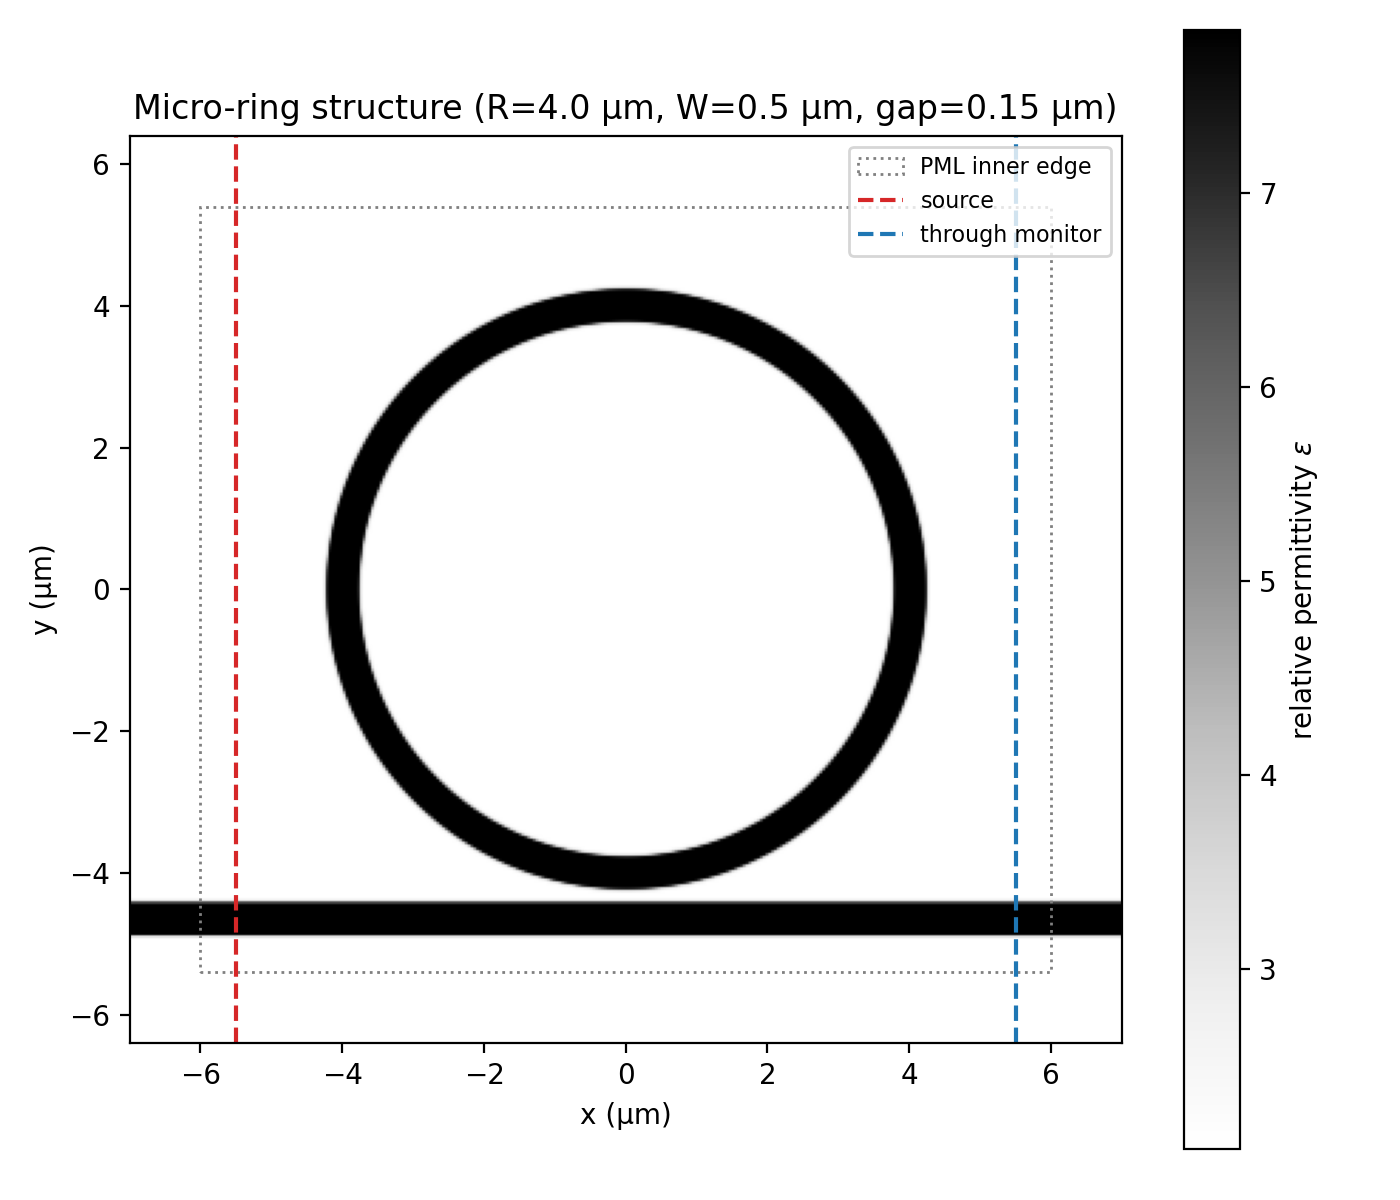
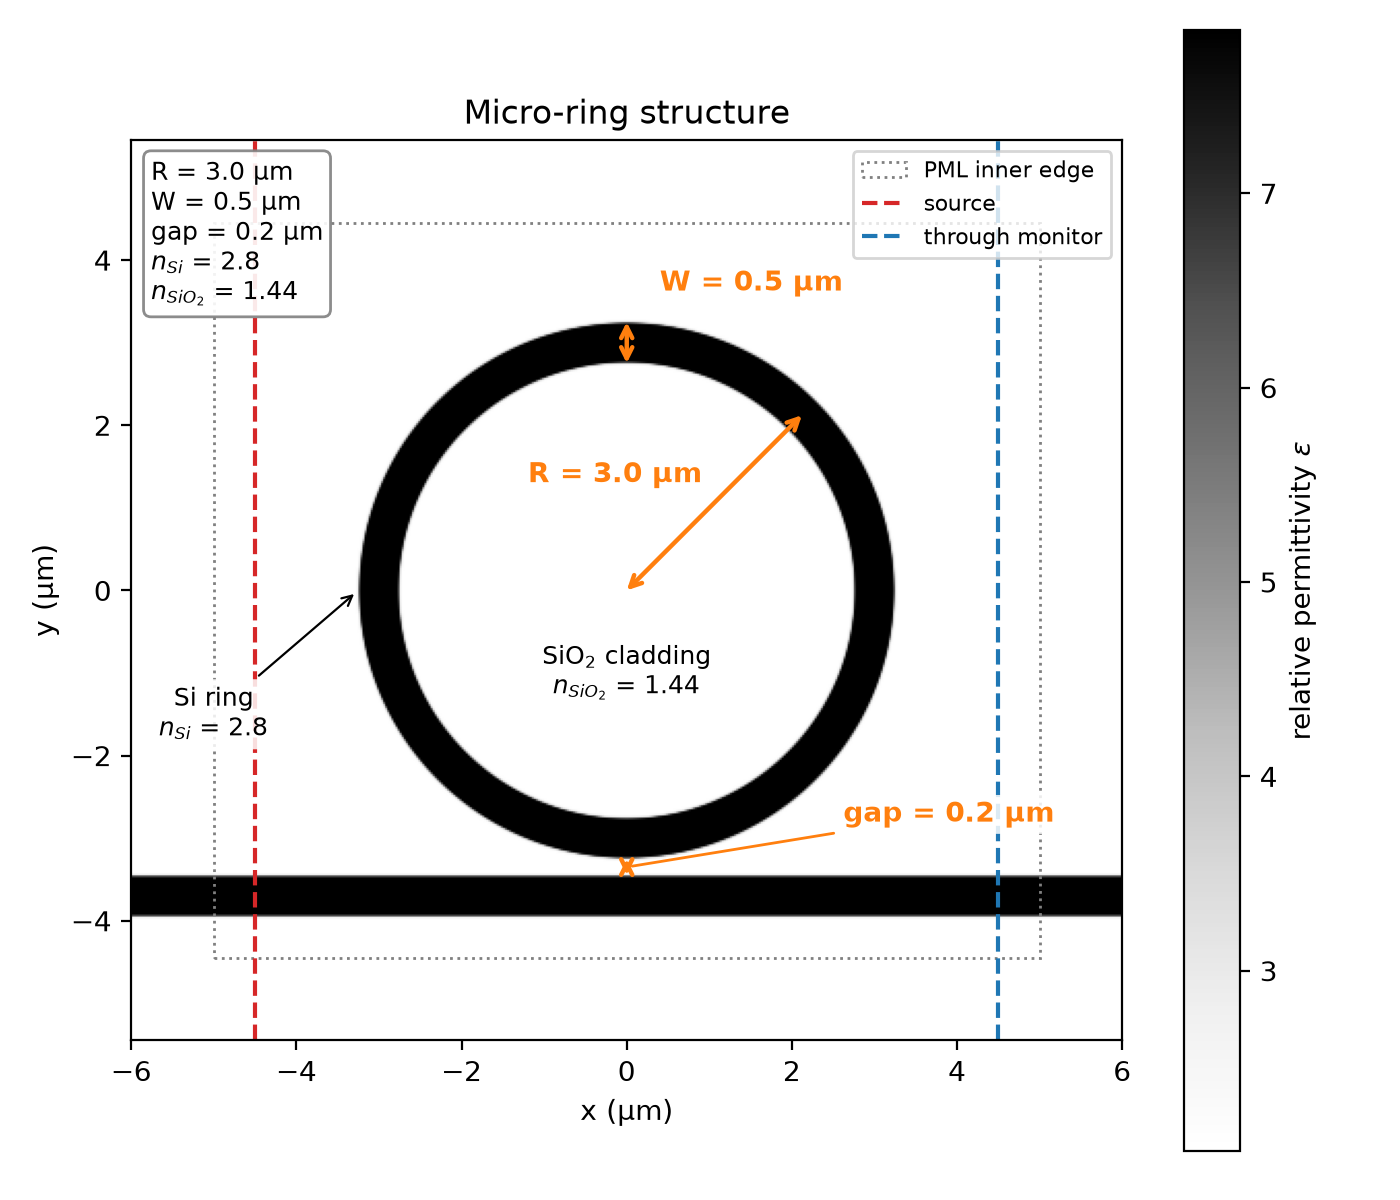
在微環結構圖新增了標示

diff --git a/micro_ring_modulator_meep.py b/micro_ring_modulator_meep.py
@@ -45,15 +45,15 @@ except ImportError:
 # 1. 參數（全部集中在這裡，之後逆向設計只要改這個 dict）
 # ============================================================
 PARAMS = dict(
-    R=4.0,            # 環「中心線」半徑 (µm)
+    R=3.0,            # 環「中心線」半徑 (µm)
     W=0.5,            # 波導寬度 (µm)，環與直波導相同
-    GAP=0.15,         # 直波導與環邊緣之間的間隙 (µm)；加大 -> 耦合變弱、凹谷更深更窄
+    GAP=0.20,         # 直波導與環邊緣之間的間隙 (µm)；加大 -> 耦合變弱、凹谷更深更窄
     N_SI=2.8,         # 矽的等效折射率（2D 近似）
     N_CLAD=1.44,      # 包覆層 SiO2 的折射率
-    WVL_MIN=1.535,    # 掃描波長下限 (µm)：只涵蓋 OFF 與 ON 的那一組共振
-    WVL_MAX=1.555,    # 掃描波長上限 (µm)：範圍要小於 FSR（約 41~44 nm），避免抓到別的共振
+    WVL_MIN=1.525,    # 掃描波長下限 (µm)：只涵蓋 OFF 與 ON 的那一組共振
+    WVL_MAX=1.545,    # 掃描波長上限 (µm)：範圍要小於 FSR（約 41~44 nm），避免抓到別的共振
     NFREQ=1200,       # 頻率取樣點數（20 nm / 1200 ≈ 0.017 nm 間隔）
-    RESOLUTION=25,    # 每 µm 的像素數（40 -> 25 nm/像素）
+    RESOLUTION=40,    # 每 µm 的像素數（40 -> 25 nm/像素）
     DPML=1.0,         # PML 吸收邊界厚度 (µm)
     DN_ON=-0.004,     # 電壓 ON 時的折射率變化 Δn（示意值，之後用 Soref 公式算）
     DALPHA_ON=0.0,    # 電壓 ON 時的額外吸收 Δα (cm^-1)；先設 0，只看折射率造成的純位移
@@ -482,10 +482,45 @@ def plot_structure(eps, p, filename="mrm_structure.png"):
     ax.axvline(-sx / 2 + d + 0.5, color="tab:red", ls="--", label="source")
     ax.axvline(sx / 2 - d - 0.5, color="tab:blue", ls="--", label="through monitor")
 
+    # ---------- 在圖上標示結構參數（每次畫圖都從 p 自動帶入，不用手動改） ----------
+    R, W, gap = p["R"], p["W"], p["GAP"]
+    # 標註箭頭與文字的共同樣式：橘色雙箭頭
+    arrow = dict(arrowstyle="<->", color="tab:orange", lw=1.6, shrinkA=0, shrinkB=0)
+    box = dict(boxstyle="round,pad=0.2", fc="white", ec="none", alpha=0.85)
+    label = dict(color="tab:orange", fontsize=10, fontweight="bold", bbox=box)
+
+    # R：從環心 (0,0) 畫到環的中心線（45 度方向），文字標在線段旁
+    c45 = np.cos(np.pi / 4)
+    ax.annotate("", xy=(R * c45, R * c45), xytext=(0, 0), arrowprops=arrow)
+    ax.text(R * c45 / 2 - 0.15, R * c45 / 2 + 0.25, f"R = {R} µm", ha="right", **label)   # 放在箭頭左上方（環內空白處）
+
+    # W：環最上方的截面，從內緣量到外緣；文字放在右上側避免遮住環
+    ax.annotate("", xy=(0, R + W / 2), xytext=(0, R - W / 2), arrowprops=arrow)
+    ax.text(0.4, R + W / 2 + 0.3, f"W = {W} µm", va="bottom", **label)
+
+    # gap：環外緣 (y = -(R+W/2)) 到直波導上緣的距離；gap 很小，文字用引線拉到旁邊
+    y_ring_out = -(R + W / 2)
+    ax.annotate("", xy=(0, y_ring_out - gap), xytext=(0, y_ring_out), arrowprops=arrow)
+    ax.annotate(f"gap = {gap} µm", xy=(0, y_ring_out - gap / 2),
+                xytext=(R + 0.9, y_ring_out + 0.45), ha="center", arrowprops=dict(arrowstyle="-", color="tab:orange", lw=1.0),
+                **label)
+
+    # 材料與折射率：矽標在環旁、SiO2 標在環心（背景區）
+    ax.text(0, -1.0, f"SiO$_2$ cladding\n$n_{{SiO_2}}$ = {p['N_CLAD']}", ha="center", va="center",
+            fontsize=9, bbox=box)
+    ax.annotate(f"Si ring\n$n_{{Si}}$ = {p['N_SI']}", xy=(-R - W / 2, 0), xytext=(-5.0, -1.5),
+                ha="center", va="center", fontsize=9, bbox=box,
+                arrowprops=dict(arrowstyle="->", color="black", lw=0.8))
+
+    # 參數總表：放在左上角（計算區的空角落，不會擋到結構）
+    info = (f"R = {R} µm\nW = {W} µm\ngap = {gap} µm\n"
+            f"$n_{{Si}}$ = {p['N_SI']}\n$n_{{SiO_2}}$ = {p['N_CLAD']}")
+    ax.text(0.02, 0.98, info, transform=ax.transAxes, ha="left", va="top", fontsize=9,
+            bbox=dict(boxstyle="round", fc="white", ec="gray", alpha=0.9))
+
     ax.set_xlabel("x (µm)")
     ax.set_ylabel("y (µm)")
-    ax.set_title(f"Micro-ring structure (R={p['R']} µm, W={p['W']} µm, "
-                 f"gap={p['GAP']} µm)")
+    ax.set_title("Micro-ring structure")               # 數值已標在圖上，標題不再重複
     ax.legend(loc="upper right", fontsize=8)
     fig.tight_layout()
     fig.savefig(filename, dpi=200)

diff --git a/README.md b/README.md
@@ -245,7 +245,7 @@ python replot_from_npz.py --xlim 1537 1542      # 手動指定 x 軸範圍 (nm)
 
 | 檔案 | 內容 |
 |---|---|
-| `mrm_structure.png` | 2D 結構平面圖（顏色深淺代表介電常數），並標出光源、監測器與 PML 內緣 |
+| `mrm_structure.png` | 2D 結構平面圖（顏色深淺代表介電常數），並標出光源、監測器與 PML 內緣；圖上自動標示 R、W、gap 的尺寸箭頭，以及矽與 SiO₂ 的折射率（`N_SI`、`N_CLAD`），數值每次畫圖都從目前參數帶入 |
 | `mrm_transmission.png` | 穿透率對波長（自動放大到兩個凹谷附近）；上圖為 OFF/ON 光譜，標題顯示共振位移與 Q，圖例標出雷射位置與 OMA；下圖為 ΔT = T_on − T_off |
 | `mrm_transmission_full.png` | 同一份資料的完整掃描範圍總覽 |
 | `mrm_spectra.npz` | 波長 `wvl_um`、`T_off`、`T_on` 陣列，可用於後續分析、重畫圖或機器學習訓練資料 |
@@ -279,6 +279,74 @@ python replot_from_npz.py --xlim 1537 1542      # 手動指定 x 軸範圍 (nm)
 | `Q_harminv` | Meep 的 Harminv：光源關掉後，由環內一個點的時域衰減量 Q | 不需要凹谷夠深，是最獨立的交叉驗證；**尚未在真實 Meep 上驗證** |
 
 試算表的「Q 採用值」優先用 `Q_fit`（沒有時退回半高寬法），收斂判定與 R 彙整都用採用值；「Q 一致性」欄顯示 `Q_harminv / Q_fit`，偏離 1 太多代表其中一種量法有問題。ER 同理有 `ER_dB`（半高寬法）與 `ER_fit_dB`（擬合）。
+
+### 7.2 CSV 欄位逐欄說明
+
+`sweep_resolution_gap.py` 輸出的 CSV 共 23 欄，順序與 `mrm_cross_compare.xlsx`「貼上區」的 A~W 欄一致。數值算不出來時（例如凹谷不完整量不到半高寬）該格留空白。除非特別註明，「OFF」指無電壓、「ON」指有電壓（折射率改變 `DN_ON`）。
+
+**A. 這一組的設定（輸入，不是量測值）**
+
+| 欄位 | 單位 | 意義 |
+|---|---|---|
+| `resolution` | 像素/µm | 解析度，Meep 把每 1 µm 切成幾格；格點邊長 = 1/`resolution` µm。它不是設計參數，是數值精度（見 10.2）。 |
+| `gap` | µm | 直波導邊緣到環外緣的最短距離（不是中心距）。越小耦合越強（見 10.3）。 |
+| `R` | µm | 環「中心線」的半徑。環的內、外緣分別是 R ∓ W/2。 |
+
+**B. 這組結果可不可信**
+
+| 欄位 | 單位 | 意義 |
+|---|---|---|
+| `valid` | True / False | OFF 與 ON 兩條光譜都通過第 8 節的檢查才是 `True`。`False` 時其餘欄位只供除錯，不要拿去訓練。注意：它主要是看凹谷深度有沒有超過 0.1 dB 門檻，不是品質分數（見 9.3）。 |
+| `reason` | 文字 | `ok`，或「OFF: 原因；ON: 原因」，原因對應第 8 節的錯誤代碼（`no_dip`、`edge_low` 等）的中文說明。 |
+| `retries` | 次數（0 到 2） | 自動修正的次數：窗口平移，或把 `DECAY` 縮小 100 倍後重跑。大於 0 代表實際用的窗口或 `DECAY` 和你一開始設定的不同。 |
+
+**C. 掃描窗口**
+
+| 欄位 | 單位 | 意義 |
+|---|---|---|
+| `window_min_nm`、`window_max_nm` | nm | 最後一次實際使用的掃描窗口兩端。若有重試平移，是平移後的位置。掃 R 時窗口寬約 1.1 個 FSR。共振（含 ON 與 OFF）必須都落在這個範圍內，否則數值是假的（見 11.1）。 |
+
+**D. 共振位置與位移**
+
+| 欄位 | 單位 | 意義 |
+|---|---|---|
+| `lam0_off_nm` | nm | OFF 光譜最深點的波長，即共振波長。它隨解析度持續漂移（格點色散），**絕對值只能在同一解析度內比較**。 |
+| `lam0_on_nm` | nm | ON 光譜最深點的波長。`DN_ON < 0` 時比 OFF 短。 |
+| `shift_nm` | nm | `lam0_on_nm − lam0_off_nm`。負值代表往短波長移。目前所有可信資料都約 −2.15 nm，由 `Δλ ≈ λ·Δn/n_g` 決定。若任一邊的凹谷被窗口切掉，這個值會是假的（例如 −0.03 nm）。 |
+
+**E. 凹谷的寬度與 Q（都是 OFF 的凹谷）**
+
+| 欄位 | 單位 | 意義 |
+|---|---|---|
+| `fwhm_nm` | nm | 半高寬：在最亮與最暗正中間的高度所量得的凹谷寬度（半高寬法）。凹谷不完整時留空白。 |
+| `Q` | 無因次 | `lam0_off_nm / fwhm_nm`，半高寬法的 Q。凹谷只有 2 到 3% 深時誤差可達三成（見 7.1）。 |
+| `Q_fit` | 無因次 | 洛倫茲擬合得到的 Q，用凹谷附近全部的點，比 `Q` 穩。`mrm_cross_compare.xlsx` 的「Q 採用值」優先用它。 |
+| `Q_fit_err` | 比例 | `Q_fit` 的相對 1σ 不確定度（0.01 = 1%）。只含隨機雜訊，約為實際散布的一半，漣漪造成的系統偏差不在內。 |
+| `Q_harminv` | 無因次 | Meep 的 Harminv 在光源關掉後，由環內一點的時域衰減量出的 Q。**目前每一組都是空白**（沒找到接近凹谷的模式，原因未查明）。 |
+
+**F. 凹谷深度（OFF 單一凹谷）**
+
+| 欄位 | 單位 | 意義 |
+|---|---|---|
+| `ER_dB` | dB | `10·log10(T_max / T_min)`，`T_max` 取窗口內的最大值，所以漣漪會讓它偏大。 |
+| `ER_fit_dB` | dB | 同樣的深度，但用擬合曲線的基線與谷底來算，較不受單點雜訊影響。「凹谷 ER 採用值」優先用它。 |
+
+**G. 調變器指標（OFF 與 ON 比較）**
+
+雷射波長 `lam_L_nm` 取在「|T_on − T_off| 最大」的位置，下面三個指標都在這個波長算。
+
+| 欄位 | 單位 | 意義 |
+|---|---|---|
+| `lam_L_nm` | nm | 程式自動選的雷射波長，也就是兩個狀態差最大的地方。 |
+| `OMA` | 無因次（0 到 1） | 光調變振幅 `\|T_on − T_off\|`，越大調變越明顯。 |
+| `ER_mod_dB` | dB | 調變消光比 `10·log10(亮 / 暗)`。這才是調變器真正的 ER，目標是 3 dB 以上；它與 `ER_dB`（單一凹谷深度）不同。 |
+| `IL_dB` | dB | 插入損耗 `−10·log10(亮狀態的 T)`，越小越好。 |
+
+**H. 耗時**
+
+| 欄位 | 單位 | 意義 |
+|---|---|---|
+| `elapsed_s` | 秒 | 這一組 `evaluate` 的牆鐘時間，含參考、OFF、ON 三次模擬與重試。與 MPI 程序數、電腦有關，只能在同一台機器、同樣的設定下比較。 |
 
 ## 8. 資料有效性檢查
 
@@ -337,7 +405,7 @@ mpirun -np 4 python sweep_resolution_gap.py --Rs 3 3.5 4 5 --gaps 0.08 0.10 0.12
 - 預設輸出 `sweep_results_v2.csv`。舊版（沒有 R 欄）的 CSV 格式不同，程式會拒絕寫入並提示改名備份。
 - 目前 CSV **沒有記錄** `DECAY` 與 `NFREQ`（沿用 `PARAMS` 的值，掃 R 時 `NFREQ` 由窗口寬度決定），之後建議加入，才能完整重現。
 
-**CSV 欄位（共 23 欄，順序與試算表 A~W 欄一致）：** `resolution`、`gap`、`R`、`valid`、`reason`、`window_min_nm`、`window_max_nm`、`lam0_off_nm`、`lam0_on_nm`、`shift_nm`、`fwhm_nm`、`Q`、`Q_fit`、`Q_fit_err`、`Q_harminv`、`ER_dB`、`ER_fit_dB`、`OMA`、`ER_mod_dB`、`IL_dB`、`lam_L_nm`、`retries`、`elapsed_s`。
+**CSV 欄位（共 23 欄，順序與試算表 A~W 欄一致；逐欄的定義、單位與注意事項見 7.2）：** `resolution`、`gap`、`R`、`valid`、`reason`、`window_min_nm`、`window_max_nm`、`lam0_off_nm`、`lam0_on_nm`、`shift_nm`、`fwhm_nm`、`Q`、`Q_fit`、`Q_fit_err`、`Q_harminv`、`ER_dB`、`ER_fit_dB`、`OMA`、`ER_mod_dB`、`IL_dB`、`lam_L_nm`、`retries`、`elapsed_s`。
 
 **舊的 `mrm_sweep_analysis.xlsx`。** 它的收斂判定要求同一組 (R, gap) 的列相鄰、且解析度遞增，掃描組合一多、分批貼上就會對不上，所以改用 `mrm_cross_compare.xlsx`（依 R、gap、解析度查值，與列的順序無關）。舊檔仍可看單組結果，但不建議再用於多組交叉比對。
 
@@ -530,6 +598,30 @@ mpirun -np 4 python sweep_resolution_gap.py --Rs 3 3.5 4 5 --gaps 0.08 0.10 0.12
 - **解析度**：`RESOLUTION=20` 時像素為 50 nm，`GAP` 只有 4 個像素（gap=0.2 µm），共振位置與深度會有誤差。最終結果請用較高解析度重跑並確認收斂。
 - **取樣與停止條件**：`DECAY` 太鬆會在環內場尚未衰減完時就停止，頻譜出現假的起伏甚至 T>1；`NFREQ` 太少會漏掉窄的凹谷。
 - 程式尚未與實驗數據或其他模擬軟體比對。
+
+### 11.1 疑難排解：換了解析度之後，圖上的凹谷被切掉、位移接近 0、Q 變成 nan
+
+**現象。** 單組執行（`python micro_ring_modulator_meep.py`）第一次的圖正常（共振位移 −2.15 nm、Q 約 6104），第二次把 `RESOLUTION` 調高後，圖上 OFF 的凹谷只剩右半邊，ON 是一條平線，標題變成「共振位移 = −0.03 nm、Q = nan」，圖例的雷射波長剛好落在窗口的左邊緣。
+
+**原因。** 不是模擬壞掉，而是共振跑出掃描窗口。解析度變高時，共振會往短波長飄（格點造成的系統差，見 10.2）：R=3、gap 0.20 時，OFF 共振從解析度 25 的 1540.4 nm 移到解析度 40 的 1535.0 nm，約移 5 nm。預設窗口是 1535 到 1555 nm，OFF 的共振剛好落在下緣，凹谷被切掉；ON 的共振（約 1532.9 nm）整個在窗口外。圖上的位移與 Q 都是從被切掉的資料算出的假數字，**不要引用**。
+
+**為什麼自動修正沒有救回來**（以下根據程式碼與圖形判斷，沒有重跑驗證）：被切掉後露出的凹谷只有約 0.09 dB，低於 `no_dip` 的門檻（0.1 dB），所以先被判成「凹谷太淺」，而不是「凹谷在窗口邊緣」，窗口平移的重試沒有被觸發。ON 整個在窗口外，也是 `no_dip`。這是目前檢查順序的已知弱點，**尚未修改**。
+
+**解法。** 把窗口改成同時涵蓋 OFF 與 ON 兩個共振，並且寬度小於 FSR（約 41 到 44 nm，否則會抓到別的共振）。窗口中心取 OFF 與 ON 的中間位置，寬約 20 nm。下表是 R=3、gap 0.20 的參考值（OFF 共振來自實測，ON 以位移 −2.15 nm 估算）：
+
+| 解析度 | OFF 共振 (nm) | ON 共振 (nm) | 建議 `WVL_MIN`、`WVL_MAX` (µm) |
+|---|---|---|---|
+| 25 | 1540.36 | 約 1538.2 | 1.530、1.550 |
+| 40 | 1535.03 | 約 1532.9 | 1.525、1.545 |
+| 50 | 1533.83 | 約 1531.7 | 1.522、1.542 |
+
+R 或 gap 改變時共振位置也會變，上表不能直接套用，要重新量。
+
+**預防。**
+- 每次換解析度、R 或 gap，先看圖上兩個共振是否都在窗口內，而且 `shift_nm` 是否約 −2.15 nm。偏離很多，幾乎一定是窗口問題。
+- 批次掃描（`sweep_resolution_gap.py`，不掃 R 時）會讓下一組的窗口跟著上一組的有效結果走，不會有這個問題；掃 R 時窗口取 1.1 個 FSR 寬。單組執行 `main()` 沒有這個機制。
+- 在程式中呼叫 `evaluate` 時，可用 `center_um` 引數把窗口放在預測的共振位置。
+- 同一批資料固定用同一個解析度，也就不需要重新換窗口。
 
 ## 12. 接上逆向設計
 
